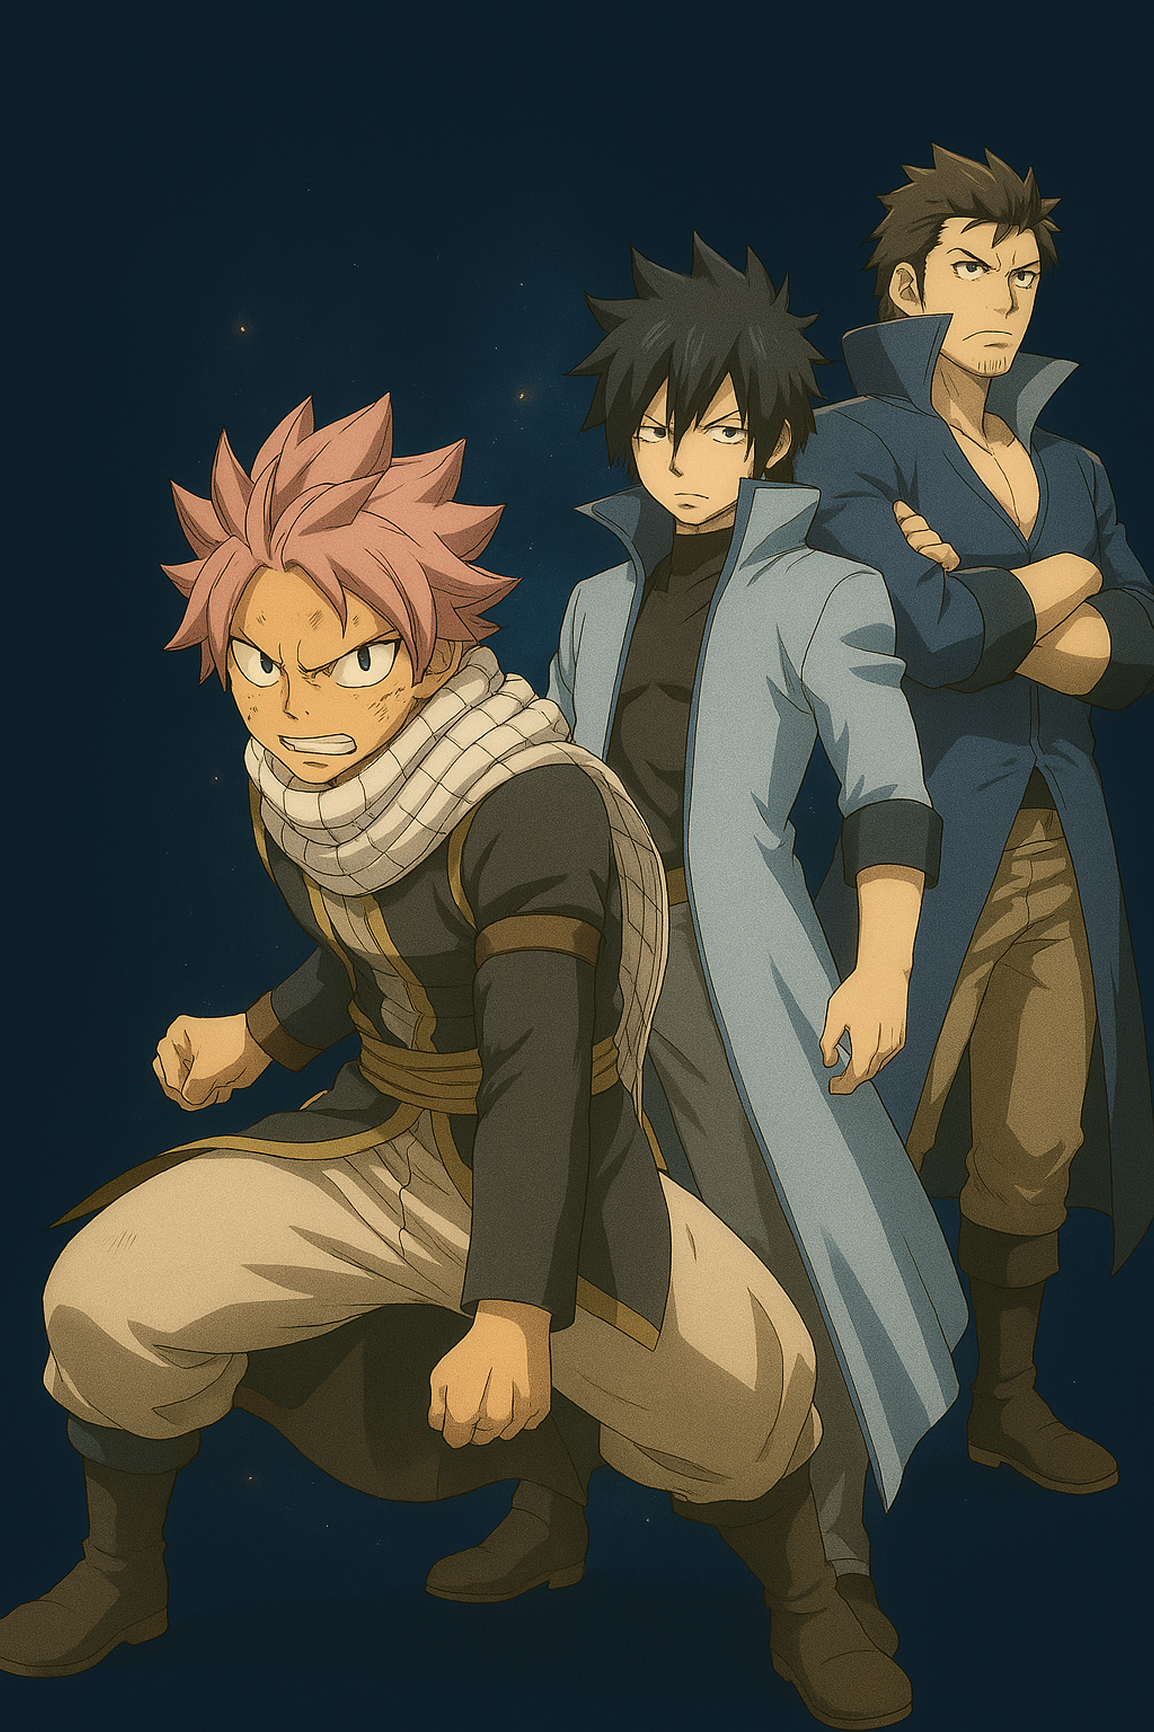
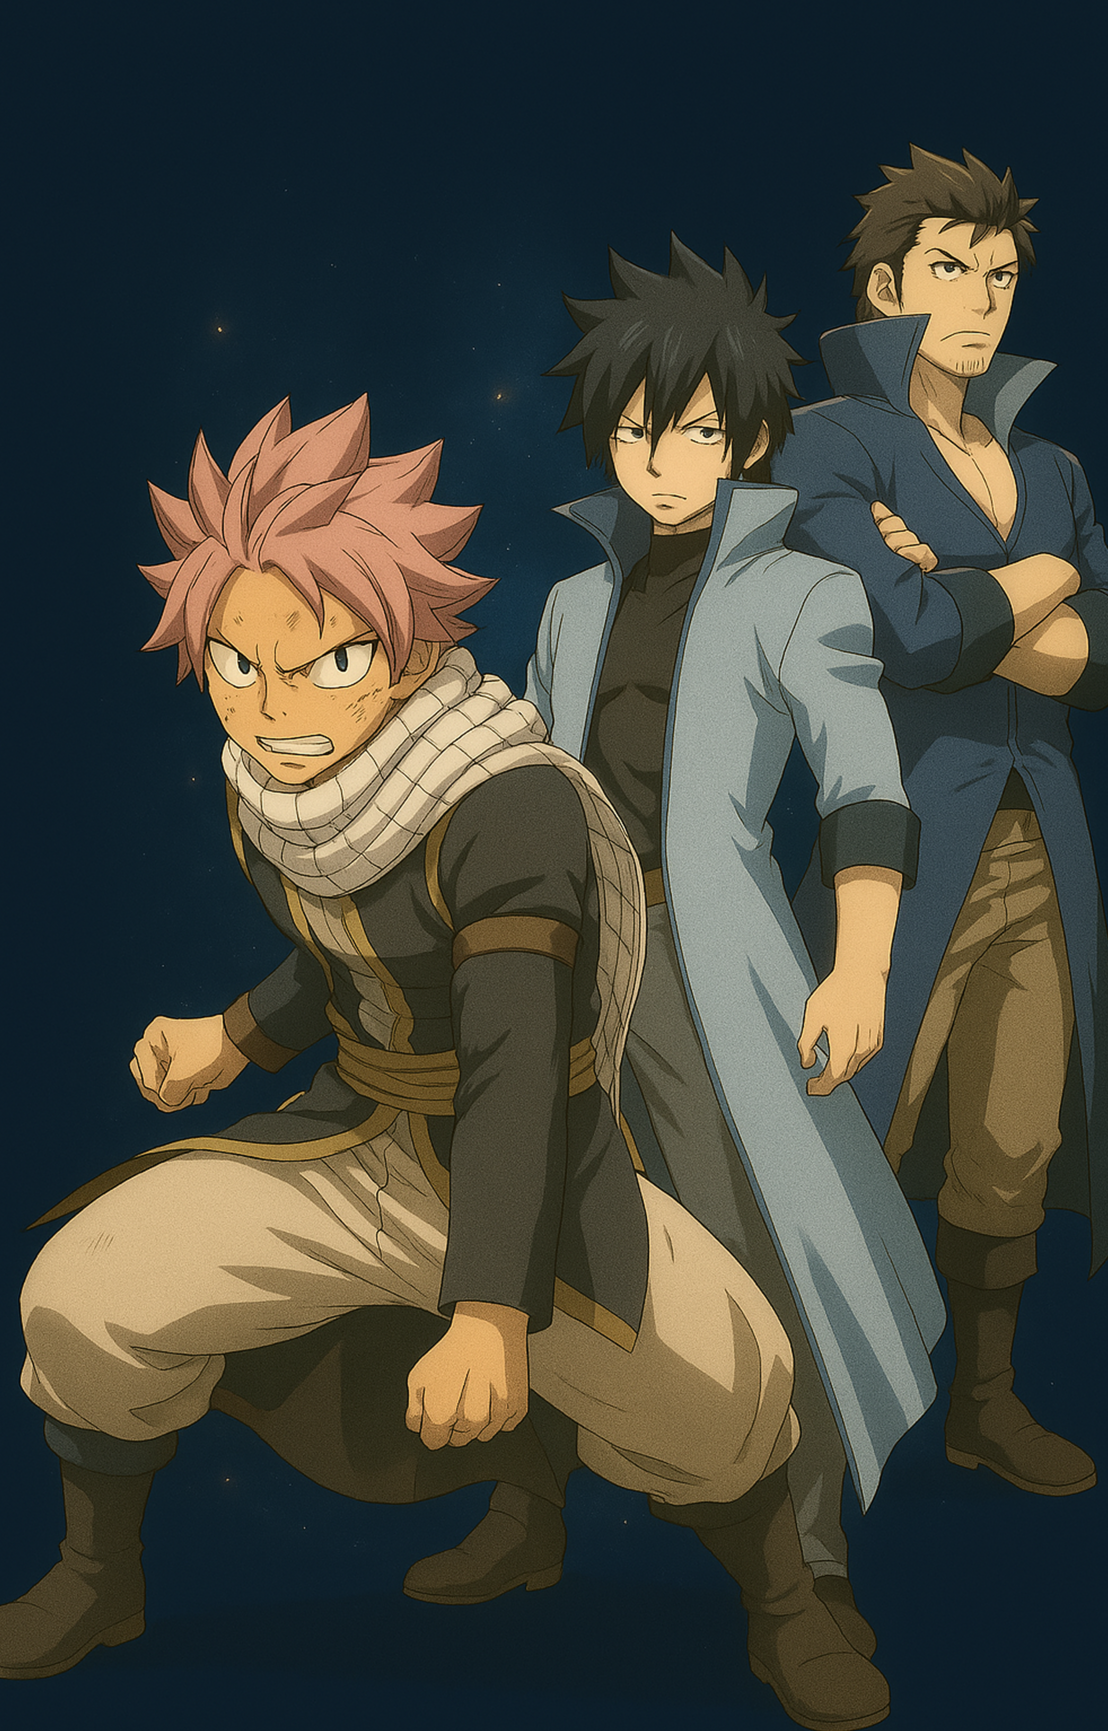
features frame animation

diff --git a/src/partials/card-frame-animation.html b/src/partials/card-frame-animation.html
@@ -1,0 +1,81 @@
+<svg
+  class="card-frame-animation"
+  data-id="card-frame-animation"
+  width="554"
+  height="866"
+  viewBox="0 0 554 866"
+  style="position: relative"
+>
+  <defs>
+    <clipPath id="insideClip">
+      <polygon
+        id="clipPoly"
+        points="0,0 66.48,0 83.1,0 83.1,0 99.72,0 537.38,0 554,0 554,28.578 554,381.04 554,398.36 554,582.318 554,599.638 554,866 27.7,866 0,866 0,866 0,837.122"
+      >
+        <animate
+          id="clipAnim"
+          attributeName="points"
+          dur="2s"
+          repeatCount="1"
+          fill="freeze"
+          begin="indefinite"
+          values="
+            0,0 66.48,0 83.1,0 83.1,0 99.72,0 537.38,0 554,0 554,28.578 554,381.04 554,398.36 554,582.318 554,599.638 554,866 27.7,866 0,866 0,866 0,837.122;
+            0,0 66.48,0 83.1,25.98 83.1,25.98 99.72,0 537.38,0 554,0 554,28.578 554,381.04 554,398.36 543.92,582.318 554,599.638 554,866 27.7,866 0,866 0,866 0,837.122;
+            0,0 66.48,0 83.1,25.98 210.52,25.98 226.14,0 537.38,0 554,0 554,28.578 554,381.04 543.92,398.36 543.92,582.318 554,599.638 554,866 27.7,866 0,866 0,866 0,837.122;
+            0,0 66.48,0 83.1,25.98 210.52,25.98 226.14,0 537.38,0 554,28.578 554,28.578 554,381.04 543.92,398.36 543.92,582.318 554,599.638 554,866 27.7,866 27.7,866 0,837.122 0,837.122;
+            0,0 66.48,0 83.1,0 83.1,0 99.72,0 537.38,0 554,0 554,28.578 554,381.04 554,398.36 554,582.318 554,599.638 554,866 27.7,866 0,866 0,866 0,837.122
+          "
+        />
+      </polygon>
+    </clipPath>
+  </defs>
+
+  <!-- Вот картинка, к которой применяем анимационный clip-path -->
+  <image
+    href="../img/game-features/strategic-combat-desktop@2x.png"
+    width="554"
+    height="866"
+    clip-path="url(#insideClip)"
+  />
+
+  <!-- Для наглядности показываем анимируемый контур -->
+  <polygon
+    fill="none"
+    stroke="#feffe8"
+    stroke-width="2"
+    vector-effect="non-scaling-stroke"
+    stroke-linejoin="round"
+    stroke-linecap="round"
+    clip-path="url(#insideClip)"
+    points="0,0 66.48,0 83.1,0 83.1,0 99.72,0 537.38,0 554,0 554,28.578 554,381.04 554,398.36 554,582.318 554,599.638 554,866 27.7,866 0,866 0,866 0,837.122"
+  >
+    <animate
+      id="borderAnim"
+      attributeName="points"
+      dur="2s"
+      repeatCount="1"
+      fill="freeze"
+      begin="indefinite"
+      values="
+        0,0 66.48,0 83.1,0 83.1,0 99.72,0 537.38,0 554,0 554,28.578 554,381.04 554,398.36 554,582.318 554,599.638 554,866 27.7,866 0,866 0,866 0,837.122;
+        0,0 66.48,0 83.1,25.98 83.1,25.98 99.72,0 537.38,0 554,0 554,28.578 554,381.04 554,398.36 543.92,582.318 554,599.638 554,866 27.7,866 0,866 0,866 0,837.122;
+        0,0 66.48,0 83.1,25.98 210.52,25.98 226.14,0 537.38,0 554,0 554,28.578 554,381.04 543.92,398.36 543.92,582.318 554,599.638 554,866 27.7,866 0,866 0,866 0,837.122;
+        0,0 66.48,0 83.1,25.98 210.52,25.98 226.14,0 537.38,0 554,28.578 554,28.578 554,381.04 543.92,398.36 543.92,582.318 554,599.638 554,866 27.7,866 27.7,866 0,837.122 0,837.122;
+        0,0 66.48,0 83.1,0 83.1,0 99.72,0 537.38,0 554,0 554,28.578 554,381.04 554,398.36 554,582.318 554,599.638 554,866 27.7,866 0,866 0,866 0,837.122
+      "
+    />
+  </polygon>
+</svg>
+
+<script>
+  const clipAnim = document.getElementById('clipAnim');
+  const borderAnim = document.getElementById('borderAnim');
+  document
+    .querySelector('[data-id="card-frame-animation"]')
+    .addEventListener('click', () => {
+      console.log('click');
+      clipAnim.beginElement();
+      borderAnim.beginElement();
+    });
+</script>

diff --git a/src/css/game-features.css b/src/css/game-features.css
@@ -1,82 +1,70 @@
+.features {
+}
+
+.container {
+}
+
+.features__title {
+}
+
+.features__wrapper {
+  display: flex;
+  align-items: center;
+  justify-content: space-between;
+}
+
+.features__cards-deck {
+}
+
 .features__card {
+  position: relative;
+  width: 554px;
+}
+
+.features__card-frame-wrapper {
+}
+
+.features__card-text-wrapper {
+  position: absolute;
+  top: 40px;
+  left: 24px;
   display: flex;
   flex-direction: column;
   justify-content: space-between;
-  width: 100%;
-  border: solid 1px var(--main-color);
+  width: 506px;
+  height: 785px;
+  pointer-events: none;
 }
 
 .features__card-title {
+  font-weight: 700;
+  font-size: 32px;
   text-transform: uppercase;
   text-align: center;
-  width: 100%;
-  border: solid 1px var(--main-color);
+
+  border: 1px solid #feffe8;
   border-radius: 8px;
+  padding: 16px;
+  width: 506px;
+  height: 73px;
 
   box-shadow: 2px 2px 4px 0 rgba(255, 255, 255, 0.25);
-  background-color: rgba(0, 32, 57, 0.8);
+  background: rgba(0, 32, 57, 0.8);
 }
 
 .features__card-text {
+  font-weight: 500;
+  font-size: 24px;
+  line-height: 1.5;
+  letter-spacing: 0.02em;
   text-align: center;
-  width: 100%;
-  border: solid 1px var(--main-color);
+
+  border: 1px solid #feffe8;
   border-radius: 8px;
+  padding: 16px 8px;
+  width: 506px;
+  height: 104px;
 
   box-shadow: 2px 2px 4px 0 rgba(255, 255, 255, 0.25);
-  background-color: rgba(0, 32, 57, 0.8);
-}
-
-@media screen and (max-width: 1199px) {
-  .features__card {
-    height: 450px;
-    padding: 20px 12px;
-    box-shadow: 2px 0 4px 0 rgba(255, 255, 255, 0.5);
-
-    background-image: image-set(
-      url(../img/game-features/strategic-combat-mobile.png) 1x,
-      url(../img/game-features/strategic-combat-mobile@2x.png) 2x
-    );
-  }
-
-  .features__card-title {
-    line-height: 1.25;
-    font-weight: 700;
-
-    padding: 8px;
-  }
-
-  .features__card-text {
-    line-height: 1.47;
-    font-size: 20px;
-    padding: 8px;
-  }
-}
-
-@media screen and (min-width: 1200px) {
-  .features__card {
-    width: 554px;
-    height: 866px;
-    padding: 40px 24px;
-    /* stroke-width: 5px;
-    stroke: #feffe8; */
-    box-shadow: 4px 2px 8px 0 rgba(255, 255, 255, 0.5);
-
-    background-image: image-set(
-      url(../img/game-features/strategic-combat-desktop.png) 1x,
-      url(../img/game-features/strategic-combat-desktop@2x.png) 2x
-    );
-  }
-
-  .features__card-title {
-    line-height: 1.21;
-    padding: 16px;
-  }
-
-  .features__card-text {
-    font-weight: 500;
-    font-size: 24px;
-    line-height: 1.45;
-    padding: 16px 8px;
-  }
+  background: rgba(0, 32, 57, 0.8);
 }

diff --git a/src/partials/game-features.html b/src/partials/game-features.html
@@ -1,12 +1,22 @@
 <section class="features" id="features">
   <div class="container">
     <h2 class="features__title">Game Features</h2>
-    <!-- Card -->
-    <div class="features__card">
-      <h3 class="features__card-title">Deep Strategic Combat</h3>
-      <p class="features__card-text">
-        Tactical battles that challenge your mind and military precision
-      </p>
+    <load src="/partials/title-frame.html" />
+    <div class="features__wrapper">
+      <div class="features__cards-deck"></div>
+
+      <!-- Card -->
+      <div class="features__card">
+        <div class="features__card-frame-wrapper">
+          <load src="/partials/card-frame-animation.html" />
+        </div>
+        <div class="features__card-text-wrapper">
+          <h3 class="features__card-title">Deep Strategic Combat</h3>
+          <p class="features__card-text">
+            Tactical battles that challenge your mind and military precision
+          </p>
+        </div>
+      </div>
     </div>
   </div>
 </section>

diff --git a/src/main.js b/src/main.js
@@ -1,2 +1,25 @@
 import 'modern-normalize';
 import './js/mobile-menu';
+
+const titleFrames = document.querySelectorAll('[data-id="title-frame-path"]');
+
+const observer = new IntersectionObserver(
+  entries => {
+    entries.forEach(entry => {
+      if (entry.isIntersecting) {
+        entry.target.classList.add('animate');
+        observer.unobserve(entry.target); // Чтобы сработало один раз
+      }
+    });
+  },
+  {
+    threshold: 0.5, // Запуск, когда 50% элемента видно
+  }
+);
+
+titleFrames.forEach(path => {
+  const lengthTitleFrame = path.getTotalLength();
+  path.style.strokeDasharray = lengthTitleFrame;
+  path.style.strokeDashoffset = lengthTitleFrame;
+  observer.observe(path);
+});

diff --git a/src/partials/reviews.html b/src/partials/reviews.html
@@ -1,11 +1,15 @@
 <section class="reviews" id="reviews">
   <div class="container">
     <h2 class="reviews__title">Reviews</h2>
+    <!-- <svg width="288" height="87" class="title-frame">
+      <use href="#title-frame-mobile" />
+    </svg> -->
+    <load src="/partials/title-frame.html" />
     <div class="reviews__card">
       <h3 class="reviews__card-title">Alexander Winter</h3>
       <div class="reviews__card-text-wrapper">
         <p class="reviews__card-text">
-          An epic saga of strategy and emotion. I’ve never cared this much about
+          An epic saga of strategy and emotion. I've never cared this much about
           my army!
         </p>
       </div>

diff --git a/src/partials/title-frame.html b/src/partials/title-frame.html
@@ -1,0 +1,17 @@
+<svg
+  class="title-frame"
+  id="title-frame-mobile"
+  width="288"
+  height="87"
+  viewBox="0 0 288 87"
+  fill="none"
+  xmlns="http://www.w3.org/2000/svg"
+>
+  <path
+    d="M33.0928 1.33569L40.1475 9.21069H40.1484L40.2891 9.36792L40.5879 9.69995H110.294L110.585 9.41675L110.717 9.28882L110.718 9.28784L118.861 1.33569H287V74.9822L279.289 85.3357H239.746L231.554 79.3376H231.555L231.447 79.2585L231.182 79.0623H165.988L165.71 79.2966L165.593 79.3953L158.495 85.3357H11.8203L1 73.8093V1.33569H33.0928Z"
+    stroke="#FEFFE8"
+    stroke-width="2"
+    class="title-frame-path"
+    data-id="title-frame-path"
+  />
+</svg>

diff --git a/src/partials/how-to-play.html b/src/partials/how-to-play.html
@@ -1,6 +1,10 @@
 <section class="ht-play" id="how-to-play">
   <div class="container">
     <h2 class="ht-play__title">How to play</h2>
+    <!-- <svg width="288" height="87" class="title-frame">
+      <use href="#title-frame-mobile" />
+    </svg> -->
+    <load src="/partials/title-frame.html" />
     <ul class="ht-play__list">
       <li class="ht-play__item">
         <div class="ht-play__position-wrapper ht-play__icon-1">

diff --git a/src/partials/about.html b/src/partials/about.html
@@ -1,6 +1,10 @@
 <section class="about" id="about">
   <div class="container">
     <h2 class="about__title">About the Game</h2>
+    <!-- <svg width="288" height="87" class="title-frame">
+      <use href="#title-frame-mobile" />
+    </svg> -->
+    <load src="/partials/title-frame.html" />
     <div class="about__wrapper">
       <div class="about__card">
         <h3 class="about__card-title">Fairy Legends: Tail Quest</h3>

diff --git a/src/partials/heroes.html b/src/partials/heroes.html
@@ -1,6 +1,10 @@
 <section class="heroes" id="heroes">
   <div class="container">
     <h2 class="heroes__title">Main Characters</h2>
+    <!-- <svg width="288" height="87" class="title-frame">
+      <use href="#title-frame-mobile" />
+    </svg> -->
+    <load src="/partials/title-frame.html" />
     <!-- Card -->
     <div class="heroes__card">
       <h3 class="heroes__card-title">General&nbsp;Kairos</h3>

diff --git a/src/partials/game-atmosphere.html b/src/partials/game-atmosphere.html
@@ -1,6 +1,10 @@
 <section class="atmosphere" id="atmosphere">
   <div class="container">
     <h2 class="atmosphere__title">Game atmosphere</h2>
+    <!-- <svg width="288" height="87" class="title-frame">
+      <use href="#title-frame-mobile" />
+    </svg> -->
+    <load src="/partials/title-frame.html" />
     <div class="atmosphere__content-wrapper">
       <picture>
         <source

diff --git a/src/css/base.css b/src/css/base.css
@@ -45,7 +45,7 @@ h1 {
 }
 
 h2 {
-  margin-bottom: 32px;
+  margin-bottom: 58px;
 }
 
 h3 {
@@ -68,6 +68,17 @@ h3 {
 section {
   scroll-margin-top: 60px;
 }
+
+.title-frame {
+  position: absolute;
+  transform: translateX(-50%);
+  top: 32px;
+  left: 50%;
+}
+
+/* @media screen and (max-width: 1199px) {
+  
+} */
 
 @media screen and (min-width: 1200px) {
   h1 {

diff --git a/src/index.html b/src/index.html
@@ -13,6 +13,7 @@
 
     <main>
       <load src="./partials/hero.html" />
+      <!-- <load src="./partials/title-frame.html" /> -->
       <load src="./partials/about.html" />
       <load src="./partials/how-to-play.html" />
       <load src="./partials/game-features.html" />
